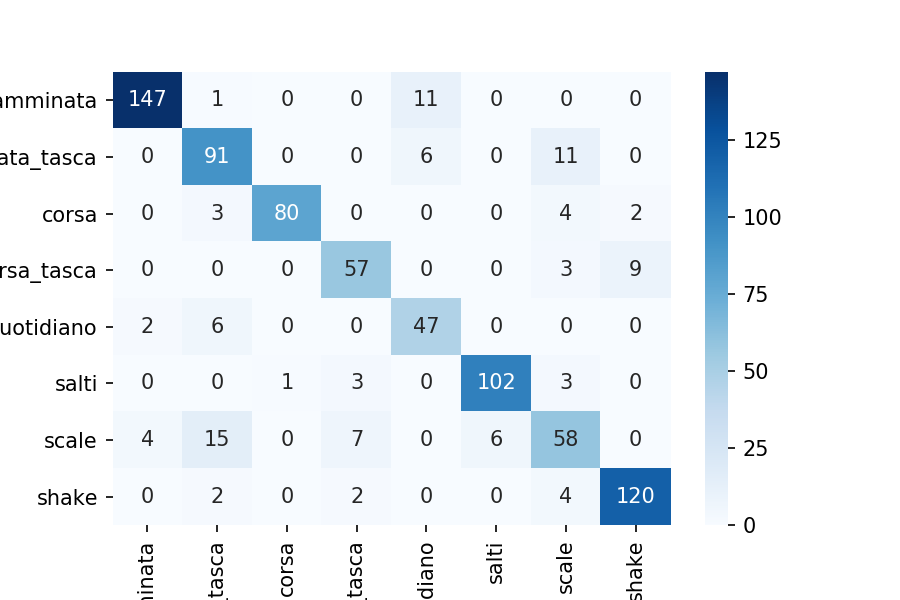
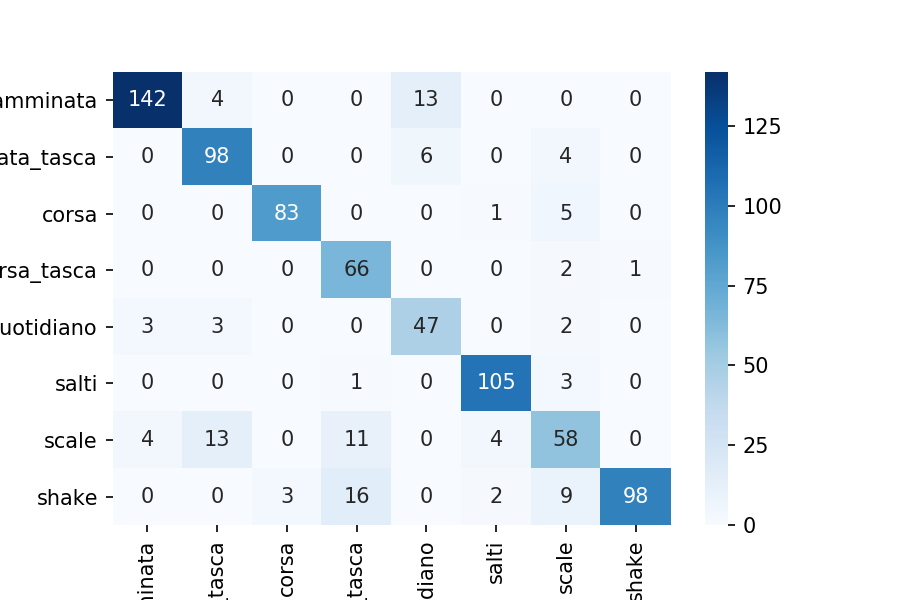
pesi3

diff --git a/funzioni/grafici.py b/funzioni/grafici.py
@@ -52,7 +52,7 @@ def ScatterGroup(X, grp, palette="colorblind"):
 def MatriceConfusione(y_true, y_pred, nome_immagine="" ,title="", col="Blues"):
     ticks = y_true.unique()
     ticks.sort()
-    g = sns.heatmap(confusion_matrix(y_true, y_pred), xticklabels=ticks, yticklabels=ticks,
+    g = sns.heatmap(confusion_matrix(y_true, y_pred, labels=ticks), xticklabels=ticks, yticklabels=ticks,
         cmap=col, annot=True, fmt="d")
     #plt.xticks(np.arange(len(ticks)), ticks, rotation=90)
     g.set_xticklabels(g.get_yticklabels(), rotation =90)
